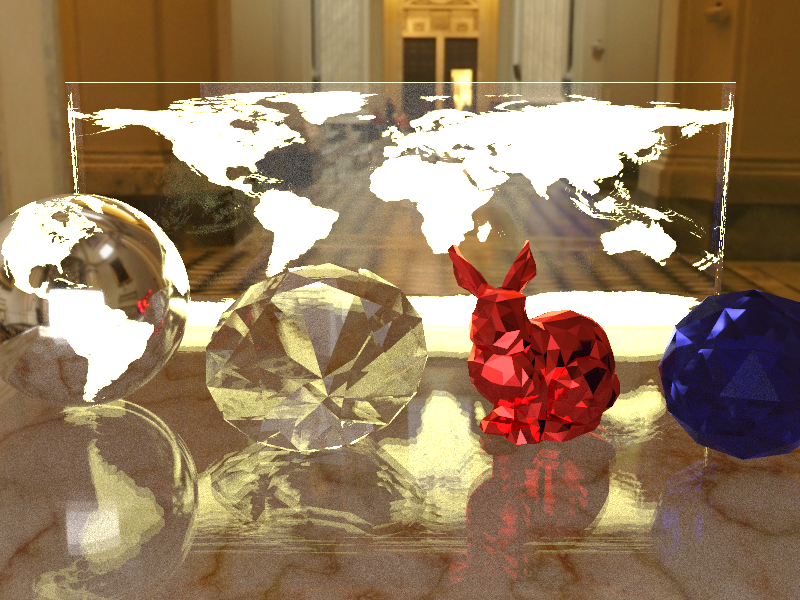
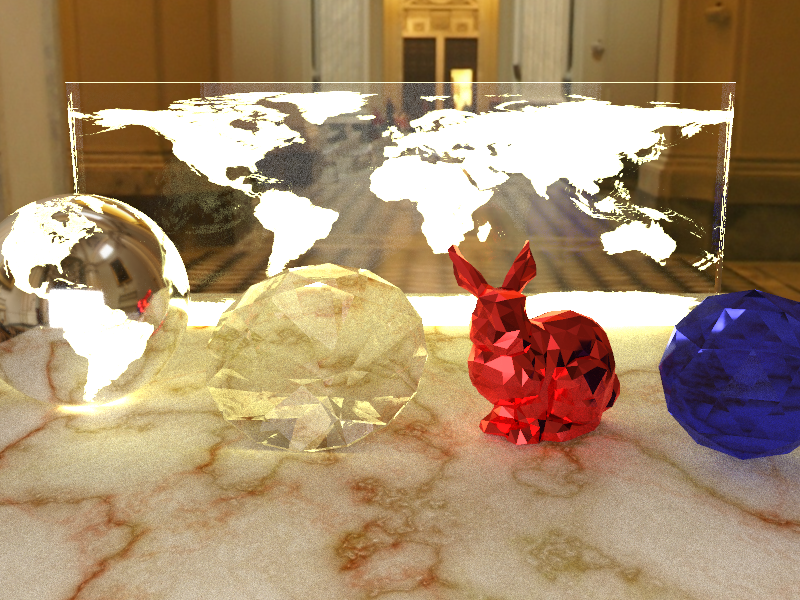
Disable two layer floor (343.03700000000003 sec. => total 290.375 sec.)

diff --git a/src/main.rs b/src/main.rs
@@ -137,6 +137,7 @@ fn render() {
                 },
             ))),
 
+            /*
             // 床（ガラス層）
             Box::new(AxisAlignedBoundingBox {
                 left_bottom: Vector3::new(-5.0, -0.1, -5.0),
@@ -153,6 +154,19 @@ fn render() {
             Box::new(AxisAlignedBoundingBox {
                 left_bottom: Vector3::new(-5.0, -1.0, -5.0),
                 right_top: Vector3::new(5.0, -0.1, 5.0),
+                material: Material {
+                    surface: SurfaceType::Diffuse,
+                    albedo: Texture::from_path("textures/2d/stone03.jpg"),
+                    emission: Texture::black(),
+                    roughness: Texture::black(),
+                }
+            }),
+            */
+
+            // 床（一層）
+            Box::new(AxisAlignedBoundingBox {
+                left_bottom: Vector3::new(-5.0, -1.0, -5.0),
+                right_top: Vector3::new(5.0, 0.0, 5.0),
                 material: Material {
                     surface: SurfaceType::Diffuse,
                     albedo: Texture::from_path("textures/2d/stone03.jpg"),
